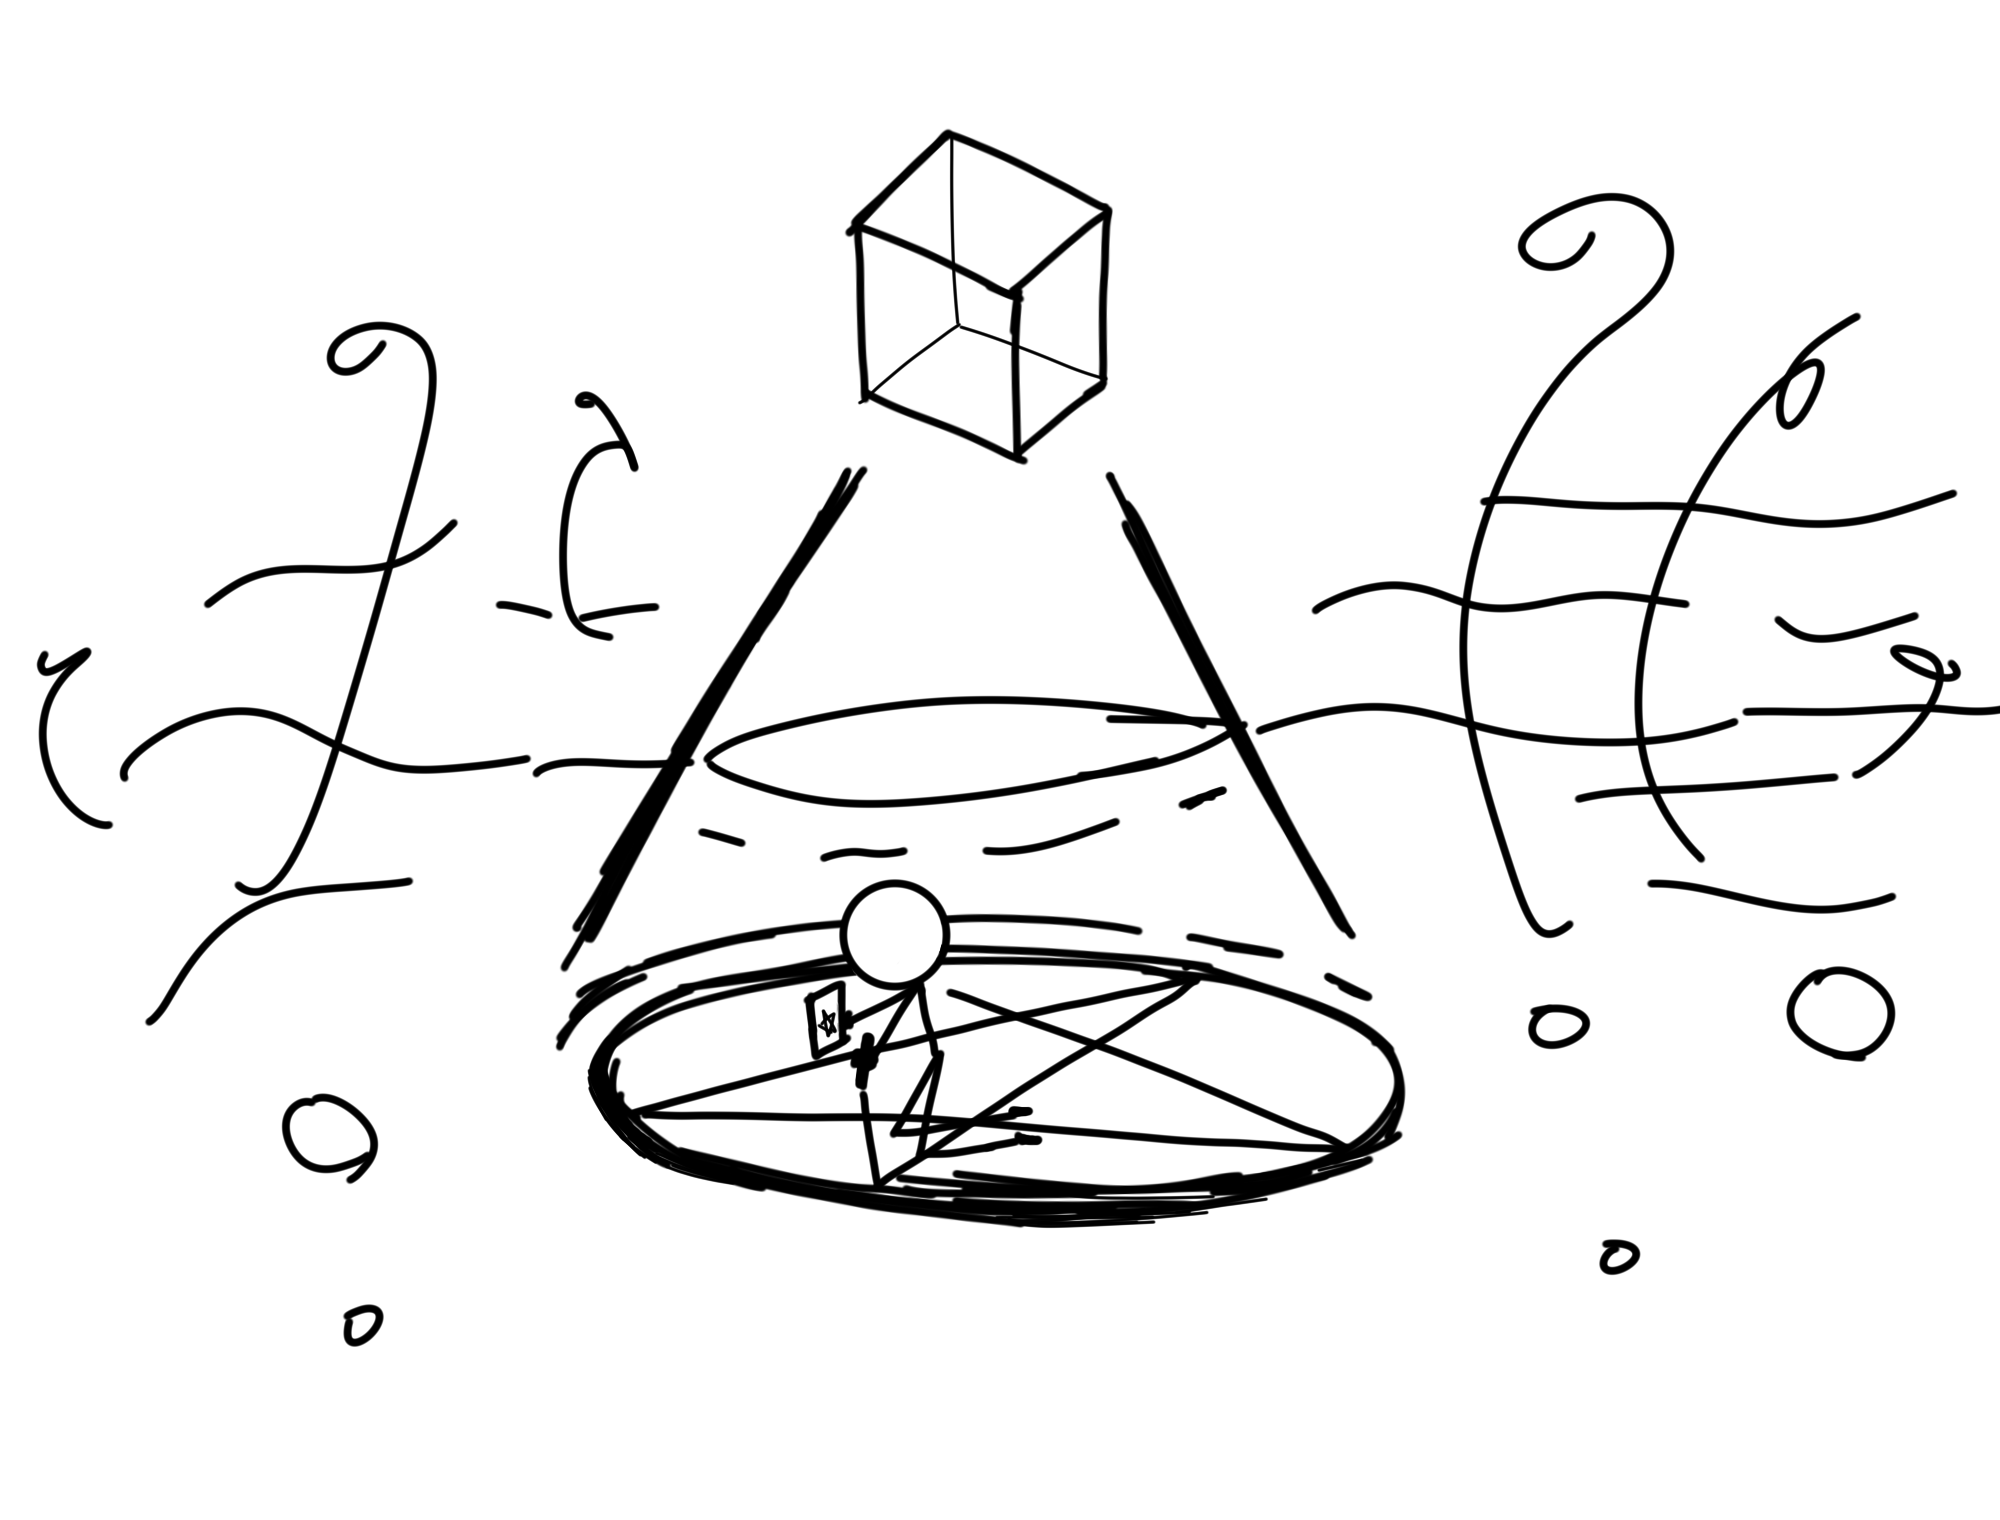
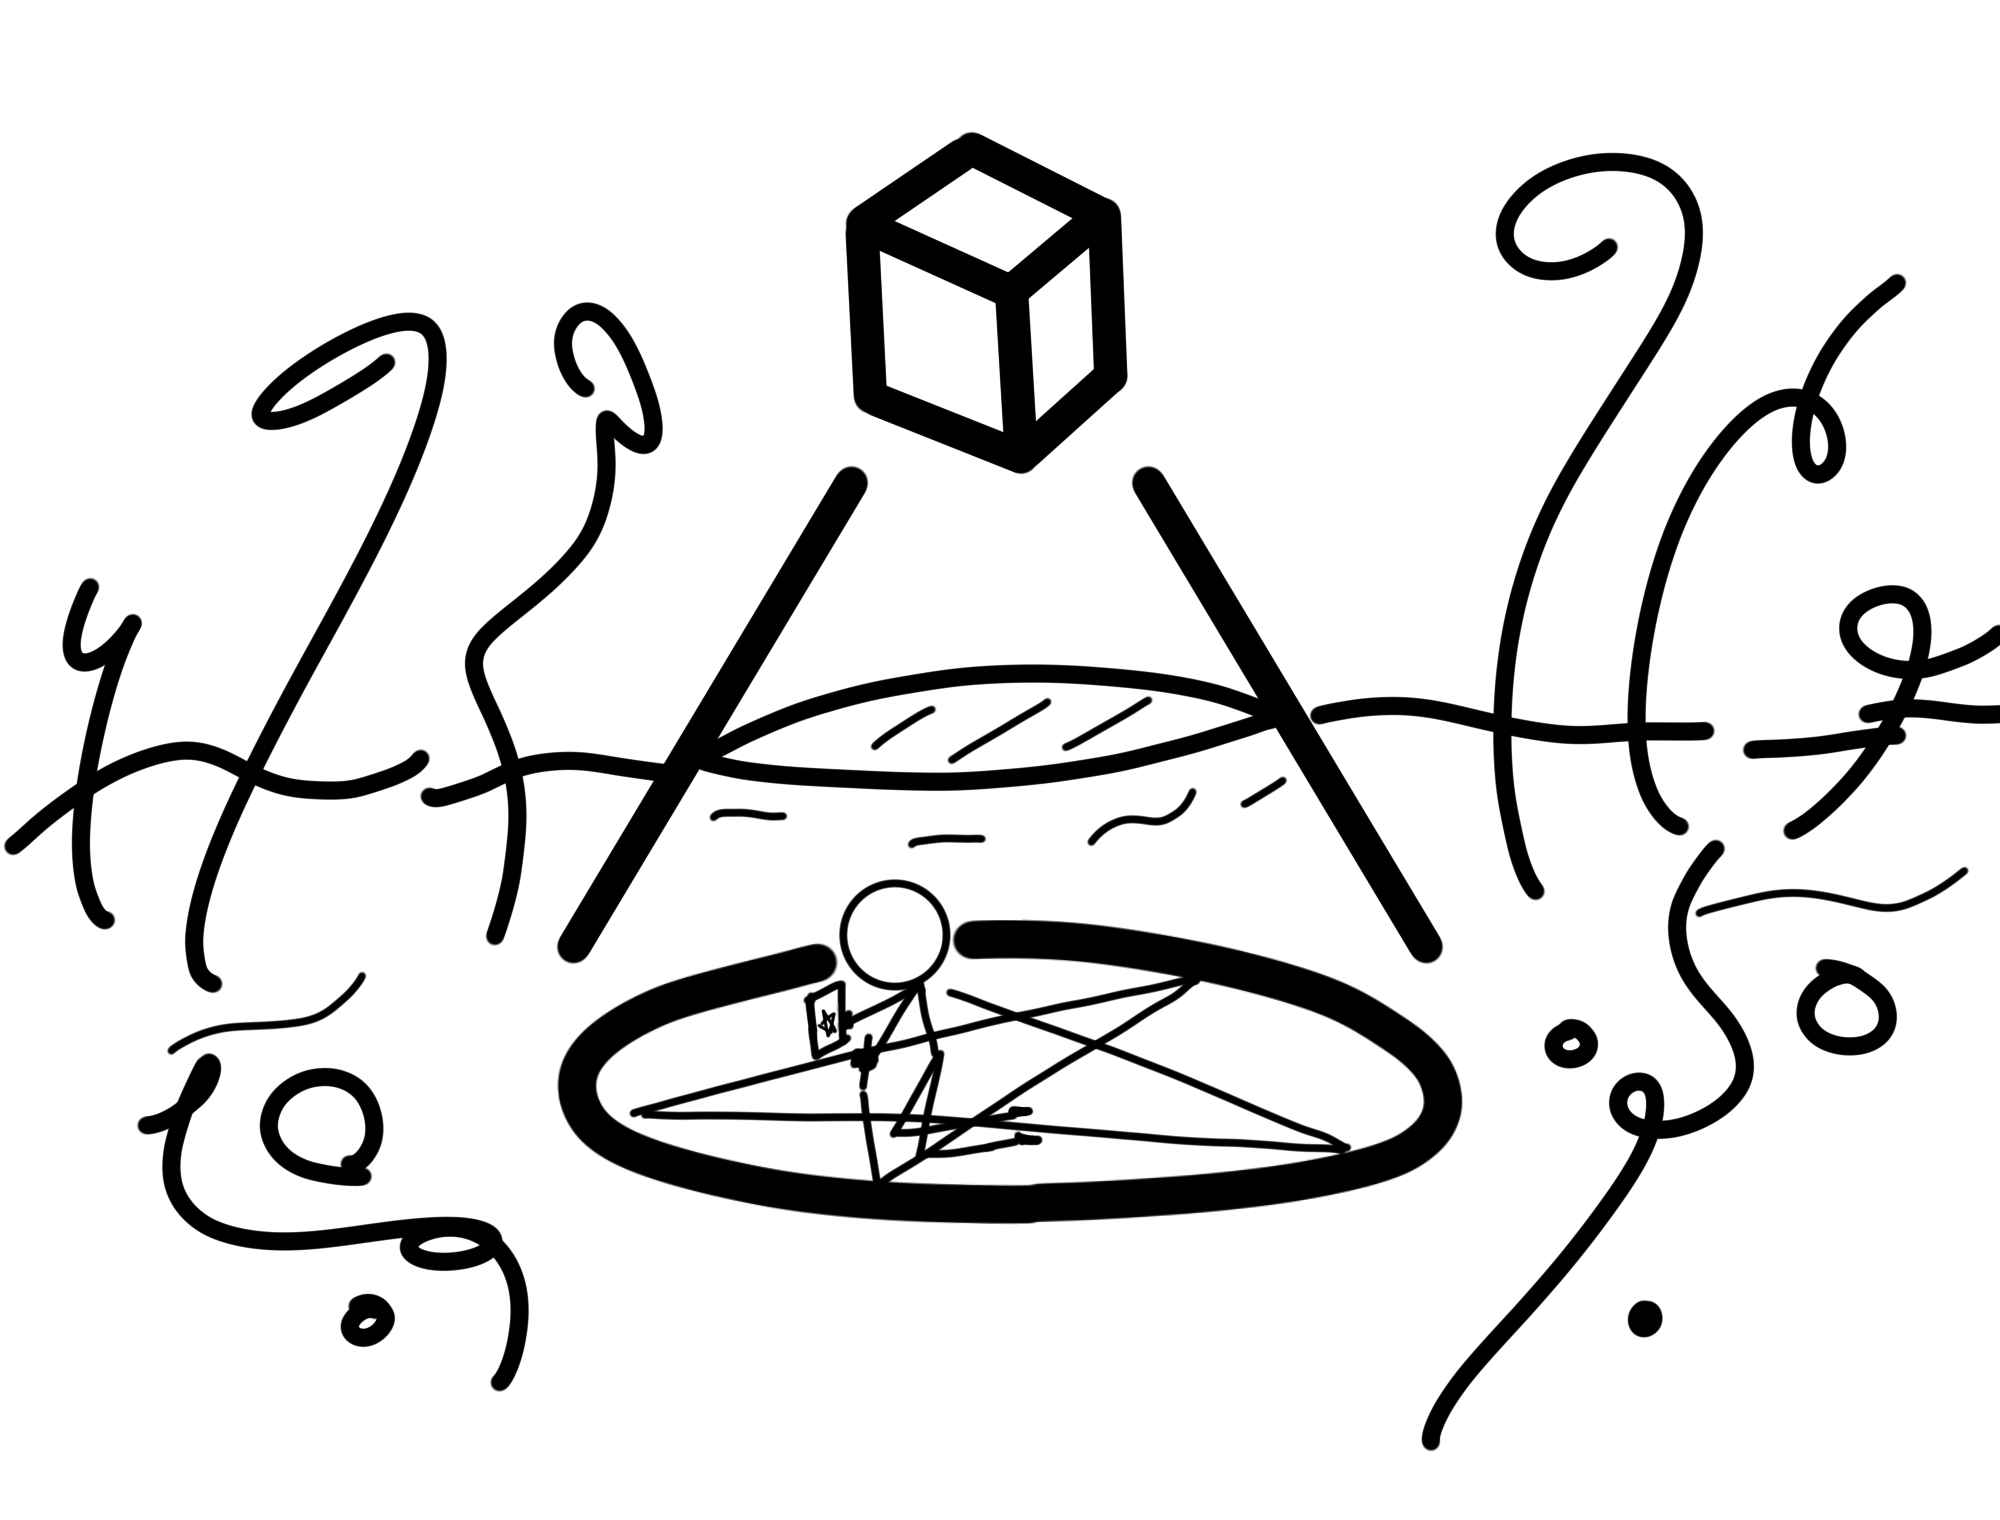
增添了“回忆”的卡图。由于图片尺寸会导致类似摩尔纹的现象，对于这张卡图采用两种材质——小图和大图。 再次加强了“习常惯行”。现在它看起来像是小痛殴。

diff --git a/ALPHANET_Code/Cards/ComfortZone.cs b/ALPHANET_Code/Cards/ComfortZone.cs
@@ -1,6 +1,8 @@
+using System.Reflection;
 using ALPHANET.Characters;
 using MegaCrit.Sts2.Core.Commands;
 using MegaCrit.Sts2.Core.Entities.Cards;
+using MegaCrit.Sts2.Core.Entities.Players;
 using MegaCrit.Sts2.Core.GameActions.Multiplayer;
 using MegaCrit.Sts2.Core.Localization.DynamicVars;
 using MegaCrit.Sts2.Core.Models;
@@ -14,31 +16,24 @@ namespace ALPHANET.Cards;
 [RegisterCard(typeof(ALPHANETCardPool))]
 public sealed class ComfortZone : ModCardTemplate
 {
-    // 记录这张牌当前已经累计叠加了多少点伤害与格挡，方便重置时精准扣回（完美兼容升级前后的混合叠加）
-    private decimal _accumulatedDamageBonus;
-    private decimal _accumulatedBlockBonus;
+    private int _growthCount;
 
     public ComfortZone() : base(1, CardType.Attack, CardRarity.Uncommon, TargetType.AnyEnemy)
     {
     }
+
     public override bool GainsBlock => true;
 
     public override CardAssetProfile AssetProfile => new(
         PortraitPath: $"{Entry.ResPath}/images/cards/{GetType().Name}.png"
     );
 
-    // 声明默认具有格挡属性
     protected override IEnumerable<DynamicVar> CanonicalVars => 
     [
-        // 基础伤害 3，受力量等加成
         new DamageVar(3m, ValueProp.Move),
-        // 攻击次数 2 次
         new RepeatVar(2),
-        // 基础格挡 2，受敏捷等加成
         new BlockVar(2m, ValueProp.Move),
-        // 每次使用的伤害增量 (3 -> 升级后 4)
         ModCardVars.Int("DamageScale", 3),
-        // 每次使用的格挡增量 (2 -> 升级后 3)
         ModCardVars.Int("BlockScale", 2)
     ];
 
@@ -46,74 +41,91 @@ public sealed class ComfortZone : ModCardTemplate
     {
         ArgumentNullException.ThrowIfNull(cardPlay.Target, "cardPlay.Target");
 
-        // 1. 造成 2 次伤害
+        SyncGrowthToVars();
+
         await DamageCmd.Attack(DynamicVars.Damage.BaseValue)
             .WithHitCount(DynamicVars.Repeat.IntValue)
             .FromCard(this, cardPlay)
             .Targeting(cardPlay.Target)
             .Execute(choiceContext);
 
-        // 2. 获得格挡
-        await CreatureCmd.GainBlock(Owner.Creature, DynamicVars.Block, cardPlay);
+        await CreatureCmd.GainBlock(Owner!.Creature, DynamicVars.Block, cardPlay);
 
-        // 3. 每次使用这张牌后，使本卡的伤害和格挡增加
-        decimal dmgIncrease = DynamicVars["DamageScale"].BaseValue;
-        decimal blkIncrease = DynamicVars["BlockScale"].BaseValue;
+        // 在打出时尝试寻找并消耗手牌中符合条件且稀有度最高的一张攻击牌
+        var targetCard = PileType.Hand.GetPile(Owner)?.Cards
+            .Where(c => c.Type == CardType.Attack && c != this)
+            .OrderByDescending(c => c.Rarity switch
+            {
+                CardRarity.Ancient => 5,
+                CardRarity.Rare => 4,
+                CardRarity.Uncommon => 3,
+                CardRarity.Common => 2,
+                CardRarity.Basic => 1,
+                _ => 0
+            })
+            .FirstOrDefault();
 
-        DynamicVars.Damage.BaseValue += dmgIncrease;
-        DynamicVars.Block.BaseValue += blkIncrease;
+        // 基础成长 1 次
+        int growthToAdd = 1;
 
-        _accumulatedDamageBonus += dmgIncrease;
-        _accumulatedBlockBonus += blkIncrease;
+        if (targetCard != null)
+        {
+            // 成功消耗手牌中的该卡牌，额外成长 1 次
+            await CardCmd.Exhaust(choiceContext, targetCard);
+            growthToAdd++; 
+        }
 
-        // 4. 遍历自己的所有牌堆：如果牌库里还有【另一张】《习常惯行》，对它而言你刚打出了“其他攻击牌”，需要将另一张重置！
+        // 一次性加上所有成长并同步
+        _growthCount += growthToAdd;
+        SyncGrowthToVars();
+
+        // 重置牌堆里【其他】的《习常惯行》
         ResetOtherComfortZonesInPiles(this);
     }
 
-    // 当场上有任何卡牌打出时触发
-    public override Task AfterCardPlayed(PlayerChoiceContext choiceContext, CardPlay cardPlay)
+    // 静态判断方法，供全局 Harmony 补丁调用
+    public static bool IsBasicCard(CardModel card)
     {
-        // 1. 必须是卡牌拥有者自己打出的牌
-        // 2. 不能是这张牌本身
-        // 3. 必须是攻击牌
-        // 4. 【核心修改】卡牌的稀有度不能是初始牌（Basic）
-        if (cardPlay.Card.Owner == Owner && 
-            cardPlay.Card != this && 
-            cardPlay.Card.Type == CardType.Attack && 
-            cardPlay.Card.Rarity != CardRarity.Basic)
-        {
-            ResetGrowth();
-        }
-        return Task.CompletedTask;
+        if (card.Rarity == CardRarity.Basic)
+            return true;
+
+        var cardType = card.GetType();
+        if (cardType.GetCustomAttribute<RegisterCharacterStarterCardAttribute>() != null)
+            return true;
+
+        string typeName = cardType.Name;
+        if (typeName is "AlphaStrike" or "Salvage" or "Strike")
+            return true;
+
+        return false;
     }
 
-    // 精准重置本卡叠加过的数值（即使叠加中途被武装升级过，也能精准退回升级后的初始白值！）
+    public void SyncGrowthToVars()
+    {
+        decimal baseDmg = IsUpgraded ? 4m : 3m;
+        decimal baseBlk = IsUpgraded ? 3m : 2m;
+        decimal scaleDmg = IsUpgraded ? 4m : 3m;
+        decimal scaleBlk = IsUpgraded ? 3m : 2m;
+
+        DynamicVars.Damage.BaseValue = baseDmg + (_growthCount * scaleDmg);
+        DynamicVars.Block.BaseValue = baseBlk + (_growthCount * scaleBlk);
+    }
+
     public void ResetGrowth()
     {
-        if (_accumulatedDamageBonus != 0m)
+        if (_growthCount > 0)
         {
-            DynamicVars.Damage.BaseValue -= _accumulatedDamageBonus;
-            _accumulatedDamageBonus = 0m;
-        }
-
-        if (_accumulatedBlockBonus != 0m)
-        {
-            DynamicVars.Block.BaseValue -= _accumulatedBlockBonus;
-            _accumulatedBlockBonus = 0m;
+            _growthCount = 0;
+            SyncGrowthToVars();
         }
     }
 
-    // 克隆卡牌时，同步复制累计账本，确保被复制出来的牌也能正常重置回初始值
     protected override void AfterCloned()
     {
         base.AfterCloned();
-        if (CanonicalInstance is ComfortZone)
-        {
-            // 注意：MutableClone 会通过字段浅拷贝自动把 _accumulatedDamageBonus 和 _accumulatedBlockBonus 复制过来，无需清零
-        }
+        SyncGrowthToVars();
     }
 
-    // 辅助方法：重置该玩家所有牌堆中的其他《习常惯行》
     public static void ResetOtherComfortZonesInPiles(CardModel playedAttackCard)
     {
         var player = playedAttackCard.Owner;
@@ -127,7 +139,7 @@ public sealed class ComfortZone : ModCardTemplate
 
             foreach (var card in pile.Cards)
             {
-                if (card is ComfortZone cz && cz != playedAttackCard)
+                if (card is ComfortZone cz && !ReferenceEquals(cz, playedAttackCard))
                 {
                     cz.ResetGrowth();
                 }
@@ -143,7 +155,7 @@ public sealed class ComfortZone : ModCardTemplate
         DynamicVars.Block.UpgradeValueBy(1m);
         // 每次成长的伤害幅度 +1 (3 -> 4)
         DynamicVars["DamageScale"].UpgradeValueBy(1m);
-        // 每次成长的格挡幅度 +1 (2 -> 3)
         DynamicVars["BlockScale"].UpgradeValueBy(1m);
+        SyncGrowthToVars();
     }
 }

diff --git a/ALPHANET_Code/Patches/ComfortZoneSystem.cs b/ALPHANET_Code/Patches/ComfortZoneSystem.cs
@@ -8,14 +8,16 @@ namespace ALPHANET.Systems;
 [HarmonyPatch]
 public static class ComfortZoneSystem
 {
-    // 拦截全局的 Hook.AfterCardPlayed
-    // 无论《习常惯行》藏在抽牌堆、弃牌堆还是手牌里，只要主人打出了其他攻击牌，立刻将它重置！
     [HarmonyPatch(typeof(Hook), nameof(Hook.AfterCardPlayed))]
     [HarmonyPostfix]
     public static void OnAnyCardPlayed(CardPlay cardPlay)
     {
         var playedCard = cardPlay?.Card;
-        if (playedCard != null && playedCard.Type == CardType.Attack)
+        if (playedCard == null || playedCard.Type != CardType.Attack)
+            return;
+
+        // 【核心修复】只有当打出的攻击牌是【非基础牌】时，才触发全牌堆重置！
+        if (!ComfortZone.IsBasicCard(playedCard))
         {
             ComfortZone.ResetOtherComfortZonesInPiles(playedCard);
         }

diff --git a/ALPHANET_Code/Cards/Recall.cs b/ALPHANET_Code/Cards/Recall.cs
@@ -23,7 +23,8 @@ public sealed class Recall : ModCardTemplate
     }
 
     public override CardAssetProfile AssetProfile => new(
-        PortraitPath: $"{Entry.ResPath}/images/cards/{GetType().Name}.png"
+        PortraitPath: $"{Entry.ResPath}/images/cards/{GetType().Name}.png",
+        PortraitMaterialPath: $"{Entry.ResPath}/images/Portrait/{GetType().Name}PortraitMat.tres"
     );
 
     protected override IEnumerable<DynamicVar> CanonicalVars =>

diff --git a/ALPHANET_Code/Powers/RNDEbbAndFlowTemporaryPowers.cs b/ALPHANET_Code/Powers/RNDEbbAndFlowTemporaryPowers.cs
@@ -1,7 +1,4 @@
-using System.Collections.Generic;
-using System.Threading.Tasks;
 using MegaCrit.Sts2.Core.Entities.Creatures;
-using MegaCrit.Sts2.Core.GameActions.Multiplayer;
 using MegaCrit.Sts2.Core.HoverTips;
 using MegaCrit.Sts2.Core.Localization.DynamicVars;
 using MegaCrit.Sts2.Core.Models;

diff --git a/ALPHANET_Code/Powers/SPYAmbushPower.cs b/ALPHANET_Code/Powers/SPYAmbushPower.cs
@@ -1,6 +1,3 @@
-using System.Collections.Generic;
-using System.Linq;
-using System.Threading.Tasks;
 using MegaCrit.Sts2.Core.Combat;
 using MegaCrit.Sts2.Core.Commands;
 using MegaCrit.Sts2.Core.Entities.Cards;

diff --git a/ALPHANET_Code/Powers/SPYAmbushBuffPower.cs b/ALPHANET_Code/Powers/SPYAmbushBuffPower.cs
@@ -1,5 +1,3 @@
-using System.Collections.Generic;
-using System.Threading.Tasks;
 using MegaCrit.Sts2.Core.Commands;
 using MegaCrit.Sts2.Core.Entities.Cards;
 using MegaCrit.Sts2.Core.Entities.Creatures;

diff --git a/ALPHANET_Code/Cards/SPYAmbush.cs b/ALPHANET_Code/Cards/SPYAmbush.cs
@@ -1,5 +1,3 @@
-using System.Collections.Generic;
-using System.Threading.Tasks;
 using ALPHANET.Characters;
 using ALPHANET.Powers;
 using MegaCrit.Sts2.Core.Commands;
